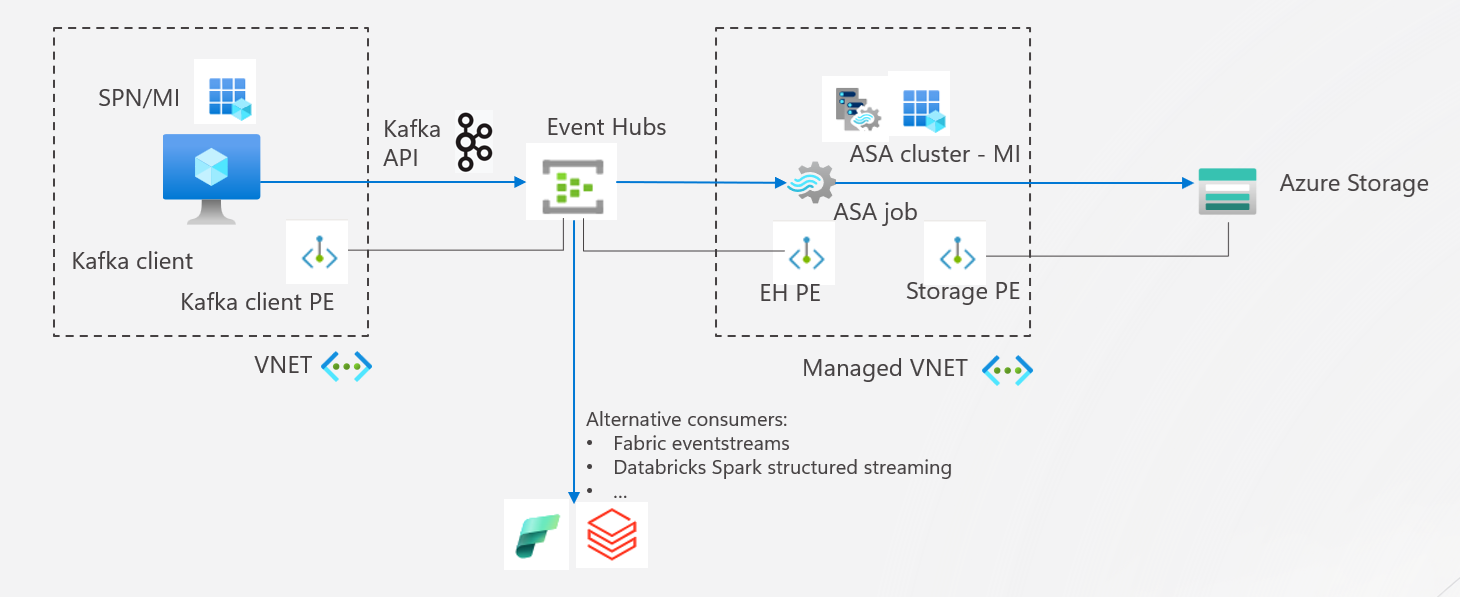
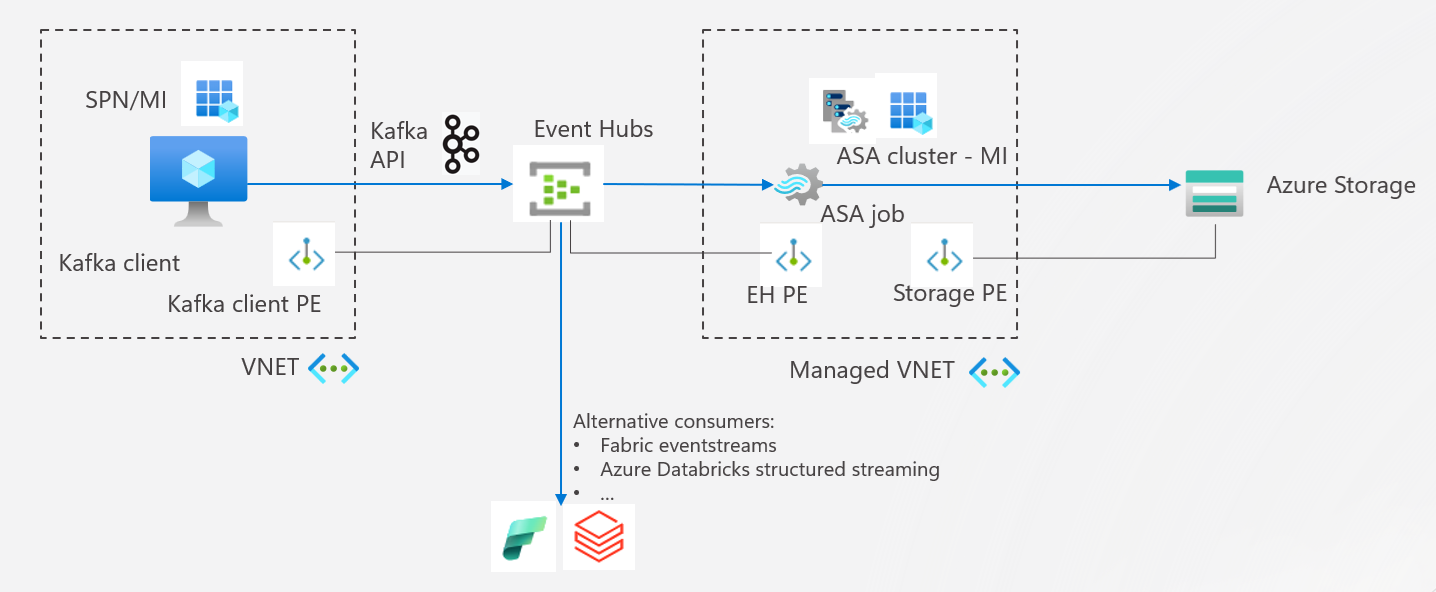
added managed VNET, alternative consumers

diff --git a/README.md b/README.md
@@ -29,7 +29,7 @@ In your streaming analytics job, add the Event Hubs as the source and Azure stor
 
 ![ASA job - read/write data](./images/ASA_job_readwrite_data.png)
 
-## Alternative Consumers - Fabric eventstreams, Databricks Structured Streaming, ...
+## Alternative Consumers - Fabric eventstreams, Azure Databricks Structured Streaming, ...
 
 Event Hubs integrate well in Microsoft Fabric. Data can be fetched in parallel from Event Hubs using Fabric streaming to do more advanced analytics. See this documentation how Event Hubs can be added to Fabric Streaming: https://learn.microsoft.com/en-us/fabric/real-time-intelligence/event-streams/overview?tabs=enhancedcapabilities
 
